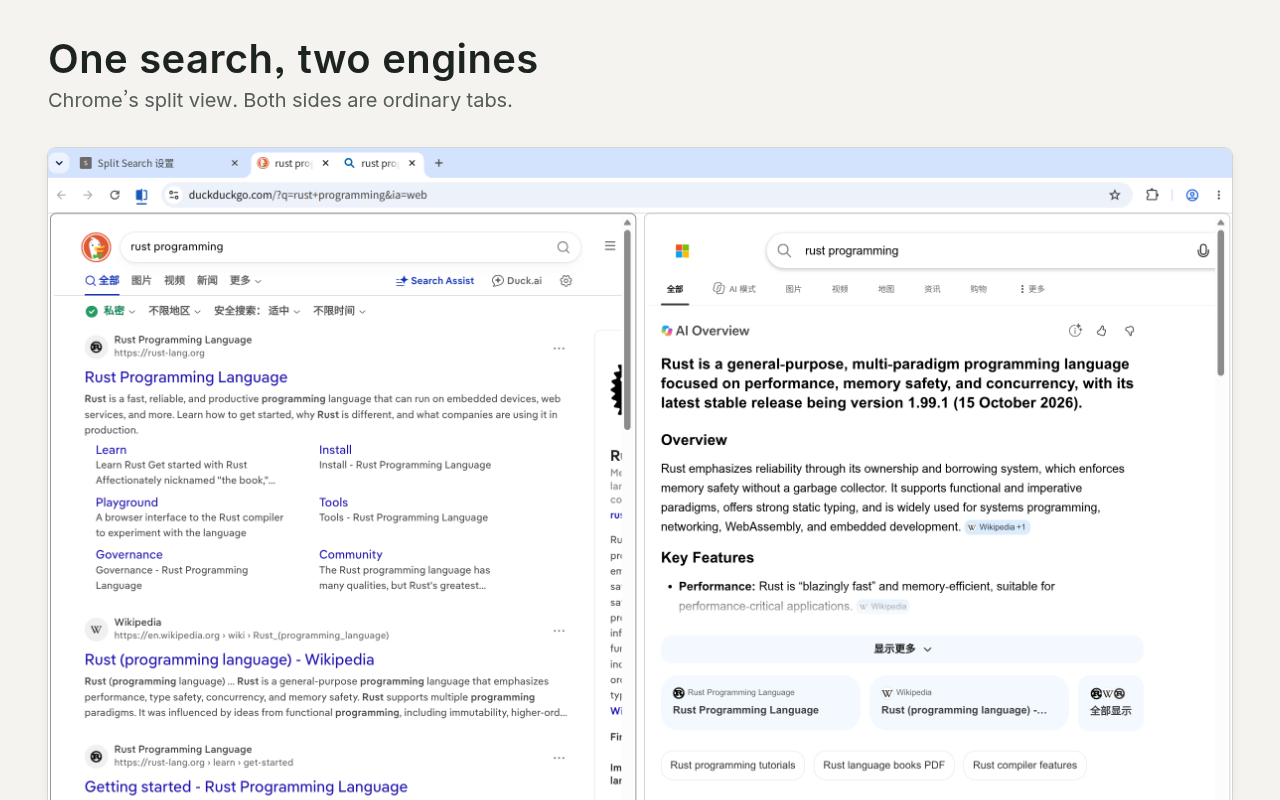
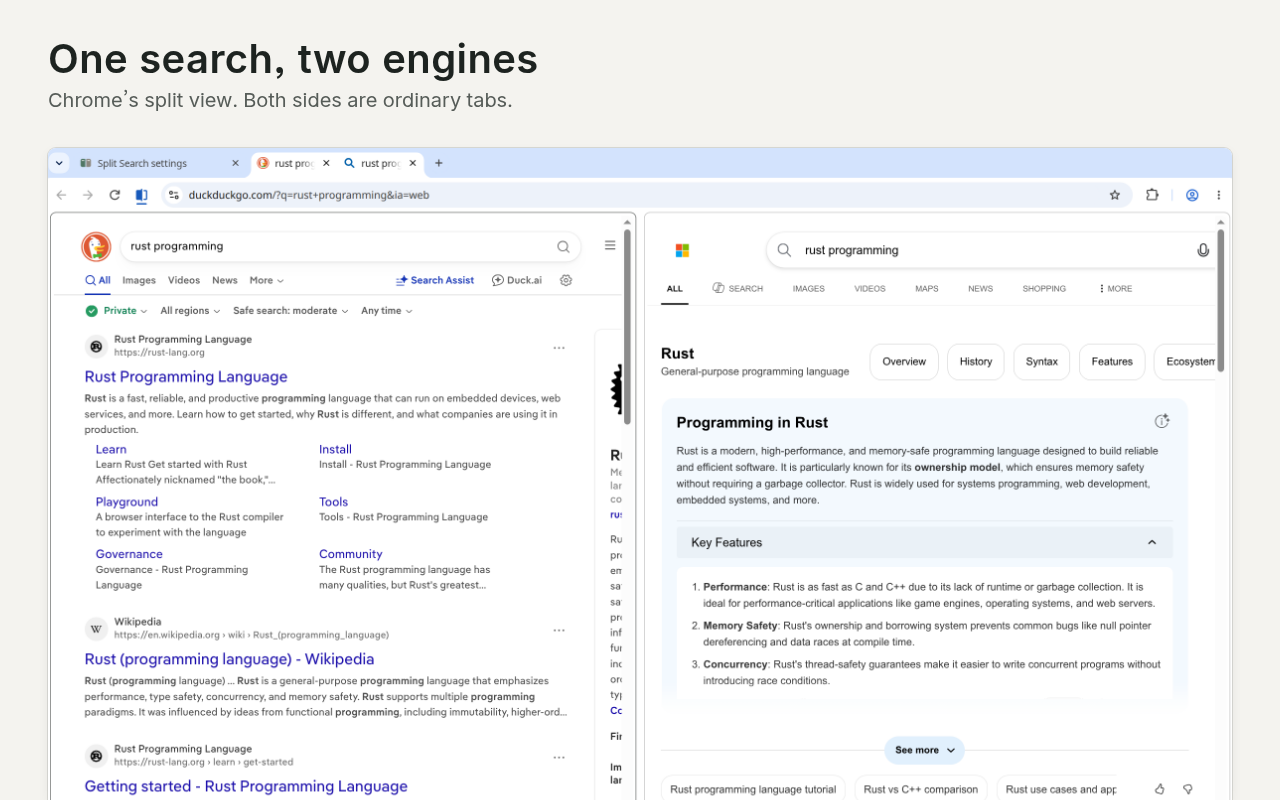
feat(store): English-only promo screenshots from real English captures
User decision 2026-10-24: promo screenshots are English-only for now.

- assets/raw/en: 8 real captures with English Chrome UI (--lang=en-US),
  extension uiLocale en, c6 icon, English DDG/Bing pages, Bing on the
  right (no Baidu); taken in the isolated e2e profile on a private Xvfb
  via scripts/e2e modules, with storage.sync, default search engine and
  site searches restored afterwards
- render-assets.mjs: rawSet() swaps ../raw/<name> for ../raw/<locale>/<name>
  when present and marks <html data-raw>; crop.js re-lays out crops and
  reads data-crop/box/d/text-<locale> overrides
- templates: en coordinates for the drag, engines card and how-it-works
  crops; en how.flagNote and _ss now say bing
- re-rendered assets/store/en and assets/readme/en; zh_CN, zh_TW and es
  outputs are byte-identical to HEAD's renderer
- docs: assets-spec, captions and listing pre-submit notes: English-only
  screenshots, CWS shows them for every locale unless localized ones are
  uploaded, other locales' screenshot sets are not maintained for now

diff --git a/assets/templates/crop.js b/assets/templates/crop.js
@@ -1,18 +1,31 @@
 // 按原图像素坐标裁切截图：<div class="crop" data-crop="x,y,w,h"><img src data-iw="2400"> …</div>
 // 缩放 = 容器宽度 / w；容器高度设为 h × 缩放（data-h="fill" 时保留 CSS 给的高度）。
 // 容器内的 .mark / .patch（data-box="x,y,w,h"）按同一缩放定位；.patch 是盖在原图上的修补小图（见 assets/raw/captions.md）；svg.ann 的 viewBox 直接写原图坐标，这里把它对齐到裁切区。
-for (const el of document.querySelectorAll(".crop[data-crop]")) {
-  const [x, y, w, h] = el.dataset.crop.split(",").map(Number);
-  const s = el.clientWidth / w;
-  if (el.dataset.h !== "fill") el.style.height = `${h * s}px`;
-  const img = el.querySelector("img:not(.patch)");
-  Object.assign(img.style, { left: `${-x * s}px`, top: `${-y * s}px`, width: `${+img.dataset.iw * s}px` });
-  for (const m of el.querySelectorAll(".mark[data-box], .patch[data-box]")) {
-    const [bx, by, bw, bh] = m.dataset.box.split(",").map(Number);
-    Object.assign(m.style, { left: `${(bx - x) * s}px`, top: `${(by - y) * s}px`, width: `${bw * s}px`, height: `${bh * s}px` });
+// 某语言换用自己的截图时（render-assets.mjs 设 <html data-raw="en">，截图在 assets/raw/en/），画面位置和网址不同：
+// 有 data-crop-en / data-box-en 就用它们，svg.ann 里 path 的 data-d-en 换掉 d，data-text-en 换掉元素文字；没有就用默认值。
+// 加载时排一次；render-assets.mjs 换完截图后再调用 window.layoutCrops()（可重复调用）。
+function layoutCrops() {
+  const raw = document.documentElement.dataset.raw;
+  const pick = (el, k) => (raw && el.getAttribute(`data-${k}-${raw}`)) || el.getAttribute(`data-${k}`);
+  if (raw) {
+    for (const el of document.querySelectorAll(`[data-text-${raw}]`)) el.textContent = el.getAttribute(`data-text-${raw}`);
+    for (const p of document.querySelectorAll(`svg.ann path[data-d-${raw}]`)) p.setAttribute("d", p.getAttribute(`data-d-${raw}`));
   }
-  for (const svg of el.querySelectorAll("svg.ann")) {
-    svg.setAttribute("viewBox", `${x} ${y} ${w} ${el.clientHeight / s}`);
-    svg.setAttribute("preserveAspectRatio", "xMinYMin meet");
+  for (const el of document.querySelectorAll(".crop[data-crop]")) {
+    const [x, y, w, h] = pick(el, "crop").split(",").map(Number);
+    const s = el.clientWidth / w;
+    if (el.dataset.h !== "fill") el.style.height = `${h * s}px`;
+    const img = el.querySelector("img:not(.patch)");
+    Object.assign(img.style, { left: `${-x * s}px`, top: `${-y * s}px`, width: `${+img.dataset.iw * s}px` });
+    for (const m of el.querySelectorAll(".mark[data-box], .patch[data-box]")) {
+      const [bx, by, bw, bh] = pick(m, "box").split(",").map(Number);
+      Object.assign(m.style, { left: `${(bx - x) * s}px`, top: `${(by - y) * s}px`, width: `${bw * s}px`, height: `${bh * s}px` });
+    }
+    for (const svg of el.querySelectorAll("svg.ann")) {
+      svg.setAttribute("viewBox", `${x} ${y} ${w} ${el.clientHeight / s}`);
+      svg.setAttribute("preserveAspectRatio", "xMinYMin meet");
+    }
   }
 }
+layoutCrops();
+window.layoutCrops = layoutCrops;

diff --git a/assets/templates/store-3-drag.html b/assets/templates/store-3-drag.html
@@ -6,7 +6,8 @@
 <script src="fonts.js"></script>
 <style>
   /* 版式同截图 2：两块同缩放（0.435），高 652 正好是原图整窗高，窗口下沿落在画布底边。
-     左 432 宽 = 拖拽中（只取选中的“Graydon Hoare”到标签栏落点这一段）；右 704 宽 = 松手后的分屏 */
+     左 432 宽 = 拖拽中（只取选中的“Graydon Hoare”到标签栏落点这一段）；右 704 宽 = 松手后的分屏。
+     en 用 assets/raw/en/ 的英文截图（选区、落点位置不同），裁切、细框、拖拽路径用 *-en 坐标（crop.js） */
   .a { left: 48px; width: 432px; } .b { left: 528px; width: 704px; }
   .cap.ca { left: 48px; } .cap.cb { left: 528px; }
   .link { left: 480px; top: 226px; }
@@ -19,18 +20,18 @@
   <div class="cap ca" data-t="shot3.cap1"></div><div class="cap cb" data-t="shot3.cap2"></div>
   <!-- 真实截图：拖拽中（选中“Graydon Hoare”，拖拽影像已到标签栏，尚未松手）；细框和细箭头是标注。
        这段裁切不含 Xvfb 下黑底的插入箭头（x=397），不需要修补图 -->
-  <div class="crop bleed a" data-crop="650,0,994,1500" data-h="fill"><img src="../raw/drag-to-tabstrip.png" data-iw="2400" alt="">
-    <i class="mark" data-box="692,588,182,50"></i>
-    <i class="mark" data-box="1418,10,182,38"></i>
+  <div class="crop bleed a" data-crop="650,0,994,1500" data-crop-en="578,0,994,1500" data-h="fill"><img src="../raw/drag-to-tabstrip.png" data-iw="2400" alt="">
+    <i class="mark" data-box="692,588,182,50" data-box-en="600,580,182,50"></i>
+    <i class="mark" data-box="1418,10,182,38" data-box-en="1370,16,180,38"></i>
     <svg class="ann">
       <defs><marker id="h" viewBox="0 0 10 10" refX="6" refY="5" markerWidth="7" markerHeight="7" orient="auto-start-reverse">
         <path d="M1 1L9 5L1 9" fill="none" stroke="#507665" stroke-width="1" stroke-linecap="round" stroke-linejoin="round"/></marker></defs>
-      <path d="M886 604 C 1200 596, 1500 470, 1509 76" fill="none" stroke="#507665" stroke-width="2.4"
+      <path d="M886 604 C 1200 596, 1500 470, 1509 76" data-d-en="M795 596 C 1110 588, 1451 470, 1460 82" fill="none" stroke="#507665" stroke-width="2.4"
         stroke-linecap="round" marker-end="url(#h)"/>
     </svg>
   </div>
   <svg class="link" viewBox="0 0 48 12"><path d="M8 6H39M34 2L39 6L34 10" stroke="#507665" stroke-width="1" fill="none" stroke-linecap="round" stroke-linejoin="round"/></svg>
-  <!-- 真实截图：松手后的分屏，左 DuckDuckGo、右百度，查询词 Graydon Hoare -->
+  <!-- 真实截图：松手后的分屏，左 DuckDuckGo、右百度（en 是 Bing），查询词 Graydon Hoare -->
   <div class="crop bleed b" data-crop="50,0,1620,1500" data-h="fill"><img src="../raw/drag-result-split.png" data-iw="2400" alt=""></div>
   <script src="crop.js"></script>
 </body></html>

diff --git a/assets/templates/readme-how-it-works.html b/assets/templates/readme-how-it-works.html
@@ -38,8 +38,8 @@
       <div class="crop" data-crop="238,62,600,136"><img src="../raw/omnibox-suggest.png" data-iw="2400" alt=""></div>
       <div class="or" data-t="how.or" data-lines="2"></div>
       <!-- 真实截图片段（拖拽中，尚未松手）：标签栏上的拖拽影像 -->
-      <div class="crop" data-crop="1250,0,480,74"><img src="../raw/drag-to-tabstrip.png" data-iw="2400" alt="">
-        <i class="mark" data-box="1418,10,182,38"></i></div>
+      <div class="crop" data-crop="1250,0,480,74" data-crop-en="1200,0,480,74"><img src="../raw/drag-to-tabstrip.png" data-iw="2400" alt="">
+        <i class="mark" data-box="1418,10,182,38" data-box-en="1370,16,180,38"></i></div>
     </div>
     <p class="note" data-t="how.note1"></p>
   </div>
@@ -49,7 +49,7 @@
     <div class="fig url">
       <code>https://duckduckgo.com<br>/?q=rust+ownership</code>
       <span class="k" data-t="how.urlNote" data-lines="1"></span>
-      <code><b>&amp;_ss=ddg,baidu</b></code>
+      <code><b data-text-en="&amp;_ss=ddg,bing">&amp;_ss=ddg,baidu</b></code>
       <span class="k s" data-t="how.flagNote" data-lines="1"></span>
     </div>
     <p class="note" data-t="how.note2"></p>
@@ -58,8 +58,8 @@
   <div class="col c3">
     <h2><b>3</b><span data-t="how.step3"></span></h2>
     <div class="fig">
-      <!-- 真实截图：回车后的分屏，左 DuckDuckGo、右百度。只取两个引擎的页头：DuckDuckGo 窗格整宽 + 百度 logo 和搜索框开头 -->
-      <div class="crop" data-crop="0,0,1640,1127"><img src="../raw/omnibox-result-split.png" data-iw="2400" alt=""></div>
+      <!-- 真实截图：回车后的分屏，左 DuckDuckGo、右百度（en 是 Bing，英文截图的空白在 1094–1110，切在 1102）。只取两个引擎的页头：DuckDuckGo 窗格整宽 + 右侧 logo 和搜索框开头 -->
+      <div class="crop" data-crop="0,0,1640,1127" data-crop-en="0,0,1640,1102"><img src="../raw/omnibox-result-split.png" data-iw="2400" alt=""></div>
     </div>
     <p class="note" data-t="how.note3"></p>
   </div>

diff --git a/test/store-i18n.test.js b/test/store-i18n.test.js
@@ -1,7 +1,8 @@
 import { test } from "node:test";
 import assert from "node:assert/strict";
 import { readFileSync, readdirSync } from "node:fs";
-import { LOCALES, SOURCE_LOCALE, localizedOut, parseArgs, resolveLocales } from "../scripts/store/render-assets.mjs";
+import { LOCALES, SOURCE_LOCALE, localizedOut, parseArgs, rawSet, resolveLocales } from "../scripts/store/render-assets.mjs";
+import { fileURLToPath } from "node:url";
 
 // 商店 / README 图片模板的文案：assets/templates/i18n/<locale>.json，模板里用 data-t="键" 引用
 const DIR = new URL("../assets/templates/", import.meta.url);
@@ -42,4 +43,13 @@ test("输出路径按语言分目录，zh_CN 的 README 图留在 assets/readme/
   assert.equal(parseArgs([]).locale, SOURCE_LOCALE);
   assert.equal(parseArgs(["--locale", "all"]).locale, "all");
   assert.throws(() => parseArgs(["--locale", "zh-TW"]), /--locale/);
+});
+
+test("en 用 assets/raw/en/ 的英文截图（宣传截图暂时只做英文），其他语言用共用截图；模板用到的每张图 en 都有", () => {
+  const en = rawSet(fileURLToPath(DIR), "en");
+  assert.equal(en?.set, "en");
+  for (const f of templates) {
+    for (const [, img] of readFileSync(new URL(f, DIR), "utf8").matchAll(/src="\.\.\/raw\/([^"/]+\.png)"/g)) assert.ok(en.files.includes(img), `${f} 用到的 ${img} 没有英文版`);
+  }
+  for (const l of ["zh_CN", "zh_TW", "es"]) assert.equal(rawSet(fileURLToPath(DIR), l), null);
 });

diff --git a/assets/templates/store-2-omnibox.html b/assets/templates/store-2-omnibox.html
@@ -17,11 +17,11 @@
     <p data-t="shot2.sub"></p>
   </header>
   <div class="cap ca" data-t="shot2.cap1"></div><div class="cap cb" data-t="shot2.cap2"></div>
-  <!-- 真实截图：在地址栏输入 rust ownership，下拉建议“rust ownership - DuckDuckGo ｜ 百度 搜索”（细框） -->
+  <!-- 真实截图：在地址栏输入 rust ownership，下拉建议“rust ownership - DuckDuckGo ｜ 百度 搜索”（细框；en 是“DuckDuckGo | Bing Search”，位置相同） -->
   <div class="crop bleed a" data-crop="0,0,994,1500" data-h="fill"><img src="../raw/omnibox-suggest.png" data-iw="2400" alt="">
     <i class="mark" data-box="246,132,504,56"></i></div>
   <svg class="link" viewBox="0 0 48 12"><path d="M8 6H39M34 2L39 6L34 10" stroke="#507665" stroke-width="1" fill="none" stroke-linecap="round" stroke-linejoin="round"/></svg>
-  <!-- 真实截图：回车后的分屏，左 DuckDuckGo、右百度，查询词 rust ownership -->
+  <!-- 真实截图：回车后的分屏，左 DuckDuckGo、右百度（en 是 Bing），查询词 rust ownership -->
   <div class="crop bleed b" data-crop="50,0,1620,1500" data-h="fill"><img src="../raw/omnibox-result-split.png" data-iw="2400" alt=""></div>
   <script src="crop.js"></script>
 </body></html>

diff --git a/assets/templates/store-4-engines.html b/assets/templates/store-4-engines.html
@@ -6,7 +6,8 @@
 <script src="fonts.js"></script>
 <style>
   /* 只放一样东西：设置页“搜索引擎”卡片，缩放 0.819。宽 1184 对应原图 x 477–1922（卡片居中，两边是设置页自己的浅灰底）；
-     出血高 652 → 原图第 1266 行，落在 Perplexity 一行下方分隔线之后的空白（1249–1284） */
+     出血高 652 → 原图第 1266 行，落在 Perplexity 一行下方分隔线之后的空白（1249–1284）。
+     en 截图卡片左移 11px、Perplexity 多一行提示：裁 465,486 起，下沿 1282 落在提示和分隔线之间的空白（1277–1303） */
   .crop { left: 48px; width: 1184px; }
 </style></head>
 <body>
@@ -15,6 +16,6 @@
     <p data-t="shot4.sub"></p>
   </header>
   <!-- 真实截图：设置页“搜索引擎”卡片（DuckDuckGo 默认左侧、Bing 默认右侧，授权状态、排序、编辑） -->
-  <div class="crop bleed" data-crop="477,470,1445,796" data-h="fill"><img src="../raw/options-engines.png" data-iw="2400" alt=""></div>
+  <div class="crop bleed" data-crop="477,470,1445,796" data-crop-en="465,486,1445,796" data-h="fill"><img src="../raw/options-engines.png" data-iw="2400" alt=""></div>
   <script src="crop.js"></script>
 </body></html>

diff --git a/docs/store/assets-spec.md b/docs/store/assets-spec.md
@@ -7,7 +7,7 @@
 | 素材 | 尺寸 | 格式 | 数量 | 是否必需 | 要点 |
 |---|---|---|---|---|---|
 | 商店图标 | 128×128 | PNG | 1 | 必需 | 图案 96×96，四周各留 16px 透明边。圆形图案直径约 112px，近方形图案约占宽度的 75–80%。不加外框，不加大投影（商店界面会自己加）；深色图案加一圈白色外发光，保证深色背景上可见。正面朝向，不用夸张透视。没有透明通道的图会被放进 12px 圆角框。同一个文件要打进扩展包，并在 manifest 的 `icons` 中声明 |
-| 截图 | 1280×800（首选）或 640×400 | PNG 或 JPEG | 1–5 | 至少 1 张 | 建议放满 5 张。直角、无留白（满版）。建议导出为不带透明通道的 PNG 或 JPEG，避免透明区域在商店里显示异常。可按语言分别上传（v0.2 起扩展有 `_locales`，v0.3 提交时按 4 种语言上传） |
+| 截图 | 1280×800（首选）或 640×400 | PNG 或 JPEG | 1–5 | 至少 1 张 | 建议放满 5 张。直角、无留白（满版）。建议导出为不带透明通道的 PNG 或 JPEG，避免透明区域在商店里显示异常。可按语言分别上传；没有为某种语言上传本地化截图时，CWS 对所有语言显示同一组截图。**暂时只做英文一套**（2026-10-24 用户决定，见第 4 节） |
 | 小宣传图 | 440×280 | PNG 或 JPEG | 1 | 控制台标为可选，按必做处理 | 没有它的条目排在有它的条目之后。少用文字；缩到一半大小仍要看得清；用饱和色，少用大面积白色和浅灰；铺满画面，边缘清晰。不能按语言区分 |
 | 顶部宣传图（marquee） | 1400×560 | PNG 或 JPEG | 1 | 可选 | 只有被商店选作首页推荐时才会用到。要求同小宣传图，不能按语言区分 |
 | 宣传视频 | — | YouTube 链接 | 1 | 可选 | 可按语言区分 |
@@ -17,7 +17,7 @@
 - 形状沿用方案 3（两块实心圆角窗格 + 白色搜索框横条），配色 c6 “pine-fog”：左格松针绿 `#507665`，右格暖雾灰 `#8C8881`。对比度等数据见 `notes.md`。
 - 来源：`assets/icon-proposals/v3-colors/c6-pine-fog/`（`icon.svg` 是 128 母版，16/32 是按像素网格调整的版本）。`assets/icon-proposals/` 其余方案留作历史。
 - 接入：`src/icons/icon-{16,32,48,128}.png`，在 manifest 的 `icons`（16/32/48/128）和 `action.default_icon`（16/32）中声明；`test/manifest.test.js` 核对文件存在且 PNG 尺寸与声明一致。`render-assets.mjs` 的默认图标已改为 c6 的 `icon.svg`，小宣传图、顶部宣传图和 README 首图已用它重渲。
-- **提交前必做（v0.3 上架前）**：`assets/raw/` 的真实截图是装上图标之前拍的，设置页标签页的图标是 Chrome 生成的灰底字母“S”，地址栏扩展标识和授权框里是默认拼图图标。凡是画面里带“Split Search 设置”标签页、设置页地址栏或授权框的图都受影响（至少 `screenshot-1`、`screenshot-4`、marquee 和 README 首图）。上架前要用带新图标的扩展重拍，再重渲全部图片。
+- **提交前必做（v0.3 上架前）**：`assets/raw/` 的共用真实截图是装上图标之前拍的，设置页标签页的图标是 Chrome 生成的灰底字母“S”，地址栏扩展标识和授权框里是默认拼图图标。凡是画面里带“Split Search 设置”标签页、设置页地址栏或授权框的图都受影响（至少 `screenshot-1`、`screenshot-4`、marquee 和 README 首图）。~~上架前要用带新图标的扩展重拍~~ 英文已重拍（2026-10-24）：`assets/raw/en/` 用带 c6 图标的 v0.2 扩展拍摄，`--locale en` 的图片都用它，见第 4 节。其他语言的截图暂不维护，不重拍。
 - ~~提交前待定：宣传图紫色渐变与橙色标注和 c6 不成一套~~ 已解决（2026-10-24）：定稿方向 d1「纸白 · 精排」，强调色就是图标左格的松针绿 `#507665`，见第 4 节。
 
 ## 2. 商店图片与 README 图片的区别
@@ -30,13 +30,13 @@
 | 文字量 | 尽量少；宣传图基本不放字，截图只配一行短标题 | 可以多：带标注的截图、流程图、步骤编号都合适 |
 | 动画 | 不支持，只能是静态图（动态内容放 YouTube 视频） | 可以用 GIF（或 WebP 动图）演示拖拽和地址栏操作；控制在几 MB 内，循环短 |
 | 明暗主题 | 商店页是浅色为主，按一套设计即可 | GitHub 有浅色和深色主题：用 `<picture>` 加 `prefers-color-scheme` 提供两套，或使用在两种背景上都清楚的透明底图 |
-| 本地化 | 截图可按语言分别上传，宣传图不行 | 跟着 README 的语言走（当前为简体中文） |
+| 本地化 | 截图可按语言分别上传，宣传图不行；目前只维护英文截图（第 4 节） | 跟着 README 的语言走（当前为简体中文） |
 | 可访问性 | 控制台不提供替代文字字段，信息要在详细说明里写全 | 每张图都写 `alt`，说清图里在演示什么 |
 | 目的 | 营销：一眼看出“两个引擎、拆分视图” | 说明：讲清机制、设置步骤和降级行为 |
 
 ## 3. 文件清单（已生成）
 
-全部图片由 `assets/templates/*.html` 经 `node scripts/store/render-assets.mjs` 渲染，画面里的浏览器和网页都是 `assets/raw/` 中的真实截图（见 `assets/raw/captions.md`），模板只做裁切、缩放、外框和标注。输出是不带透明通道的 PNG。
+全部图片由 `assets/templates/*.html` 经 `node scripts/store/render-assets.mjs` 渲染，画面里的浏览器和网页都是 `assets/raw/` 中的真实截图（见 `assets/raw/captions.md`），模板只做裁切、缩放、外框和标注。`en` 用 `assets/raw/en/` 的英文截图（英文 Chrome、英文扩展界面、右侧 Bing），其他语言用 `assets/raw/` 根下共用的中文截图。输出是不带透明通道的 PNG。
 
 图标默认用选定的 c6（见第 1 节）。要试别的图标时：
 
@@ -80,7 +80,7 @@ node scripts/store/render-assets.mjs --icon assets/icon-proposals/<方案目录>
   node scripts/store/render-assets.mjs --locale all     # i18n/ 里有 json 的全部语言
   ```
 
-  四种语言都已出图（2026-10-24），每种 9 张：商店 7 张（截图 1–5、小宣传图、顶部宣传图）+ README 2 张（`hero.png`、`how-it-works.png`）。译文是草稿，v0.3 前 zh_CN 源文案润色后重译。
+  四种语言都已出图（2026-10-24），每种 9 张：商店 7 张（截图 1–5、小宣传图、顶部宣传图）+ README 2 张（`hero.png`、`how-it-works.png`）。译文是草稿，v0.3 前 zh_CN 源文案润色后重译。只有 `en` 的画面是英文截图（见下面“宣传截图暂时只做英文”），其他语言的图片里浏览器和网页仍是中文。
 
   | 语言 | 文案 | 商店图 | README 图 | 说明 |
   |---|---|---|---|---|
@@ -90,8 +90,11 @@ node scripts/store/render-assets.mjs --icon assets/icon-proposals/<方案目录>
   | `es` | `i18n/es.json` + `i18n/es.css` | `assets/store/es/` | `assets/readme/es/` | 中性国际西语（tú）；`es.css` 把 marquee 标题降到 46px、小宣传图标签降到 20px |
 
   四种语言并排对照：`assets/proposals/locales-compare.png`（源文件 `locales-compare.html`，无头 Chrome 宽 1800 整页截图；图片改了要重截）。共用模板与 `base.css` 没有为译文改动，zh_CN 重渲后与提交的图逐字节一致。
-- **提交前必做（v0.3）：4 种语言都要重拍真实截图**。`assets/raw/` 的截图是中文 Chrome 界面、中文扩展界面（设置页）、旧的字母“S”图标，地址栏和拖拽两组右侧引擎是自行添加的“百度”。换了文案的 en / zh_TW / es 图片里，浏览器和网页仍是中文，不能直接上传。重拍时每种语言用 `--lang=<locale>` 启动 Chrome（界面语言跟着变），扩展界面用 v0.2 的本地化版本，装正式图标，右侧尽量换成预置引擎；再按语言重渲全部图片。
-- **宣传图不能按语言区分**：CWS 的小宣传图（440×280）和顶部宣传图（1400×560）全站只有一张，但 d1 的这两张都带一句文案（`small.tag`、`marquee.*`），渲染会每种语言各出一张。i18n 方案第 11 节写的是“宣传图不分语言，图上尽量不放文字，必须放就只放英文产品名”，两者冲突：提交前要决定上传哪种语言的版本（倾向 `en`，与 `default_locale` 一致），或者另做一版不带文案的宣传图。
+- **宣传截图暂时只做英文（2026-10-24 用户决定）**：取代原来“4 种语言都要重拍真实截图”的计划。
+  - `assets/raw/en/` 是英文的真实截图（拍法见 `assets/raw/captions.md`“英文截图”）：英文 Chrome 界面（`--lang=en-US`）、扩展界面语言 `en`、c6 正式图标、英文结果页，右侧全部是预置的 Bing，没有百度。`render-assets.mjs` 渲染某种语言时，`assets/raw/<语言>/` 里有同名截图就用它，没有就用 `assets/raw/` 根下共用的；画面位置不同的地方，模板用 `data-crop-en`、`data-box-en`、`data-d-en`、`data-text-en` 写英文截图的坐标和网址（`crop.js`）。目前只有 `en` 有自己的截图。
+  - 上传：截图、小宣传图、顶部宣传图都用 `assets/store/en/`。CWS 对所有语言显示同一组截图，除非为某种语言另行上传本地化截图；这次不上传其他语言的截图。
+  - 其他语言（zh_CN、zh_TW、es）的截图暂不维护：`assets/store/zh_CN|zh_TW|es/` 的画面仍是中文 Chrome、旧字母图标、右侧百度，不要上传。以后要做，再按 `en` 的办法为该语言拍 `assets/raw/<语言>/` 并补对应的 `data-*-<语言>` 坐标。
+- **宣传图不能按语言区分**：CWS 的小宣传图（440×280）和顶部宣传图（1400×560）全站只有一张，但 d1 的这两张都带一句文案（`small.tag`、`marquee.*`），渲染会每种语言各出一张。i18n 方案第 11 节写的是“宣传图不分语言，图上尽量不放文字，必须放就只放英文产品名”。按上一条的决定上传 `en` 版本（与 `default_locale` 一致）；要完全不带文案，还得另做一版。
 
 ## Review fixes（2026-10-24）
 

diff --git a/assets/raw/captions.md b/assets/raw/captions.md
@@ -57,3 +57,29 @@ convert drag-to-tabstrip.png \
 - 这台机器上 Bing 对中文查询会弹出人机验证（“最后一步 / 请验证您是真人”），所以中文场景的右侧换成了百度。补拍时，中文查询不要用 Bing 作右侧。
 - 截图里引擎页面的内容（DuckDuckGo 的 Search Assist、百度的 AI 摘要、“大家还在搜”等）都是网站当时实际返回的结果，没有改过。
 - 横向滚动条是 Linux 版 Chrome 的普通滚动条。Windows 上的效果以实拍为准。
+
+## 英文截图（en/）
+
+2026-10-24 用户决定宣传截图暂时只做英文。`en/` 是同一套画面的英文版，`render-assets.mjs --locale en` 用它们替换上面的同名图（其他语言仍用上面的中文截图，见 `docs/store/assets-spec.md` 第 4 节）。
+
+拍摄环境（与上面不同之处）：
+
+- Google Chrome 155.0.8059.84（Linux），界面语言英文：启动参数加 `--lang=en-US`、环境变量 `LANGUAGE=en_US:en`。独立 Xvfb 屏幕 2400×1500、缩放 1.5，窗口 1600×1000 CSS 像素，`import -window root` 截整屏，没有鼠标指针。
+- 用 e2e 的隔离测试配置 `~/.cache/split-search-e2e/profile`（`--disable-sync`，不登录 Chrome 账号），全程经 `scripts/e2e` 的模块：`display.mjs` 起私有 Xvfb，`browser.mjs` 启动，`ext-source.mjs` 改装本检出（feat/v0.2）的 `src/`，`settings-se.mjs` 加网站搜索并设默认，`xinput.mjs` 真实拖拽和键盘输入，`teardown.mjs` 的恢复步骤收尾：`storage.sync` 读回与快照一致，默认搜索引擎改回运行前的那个、删掉 `sse2e` 条目，扩展改回运行前装自的目录。测试配置的 Accept-Language 是 `en-US,en,zh-CN`，DuckDuckGo 和 Bing 都返回英文页面，没有加 `kl`、`setlang` 之类的参数。
+- 扩展版本 0.2（带 c6 正式图标），`storage.sync` 临时写成 `uiLocale: "en"`、默认组合 DuckDuckGo ｜ Bing、引擎排序 DuckDuckGo、Bing、Google、Kagi、Perplexity。测试配置里五个预置引擎都已授权，所以设置页里全部显示“Access granted”。
+- 网站搜索：名称 `DuckDuckGo | Bing`（设置页建议的名称）、网址 `https://duckduckgo.com/?q=%s&_ss=ddg,bing`、快捷字词 `sse2e`，设为默认。右侧全部是预置的 Bing，没有百度。
+
+| 文件 | 内容 |
+|---|---|
+| `en/options-top.png` | 设置页首屏（英文界面）：标题、语言下拉框、默认组合、“Add to Chrome”卡片里的触发网址 |
+| `en/options-engines.png` | 设置页滚动到“Search engines”卡片，卡片上缘与中文版同高（左右比中文版偏左 11px，模板用 `data-crop-en`） |
+| `en/options-fullpage.png` | 设置页整页（CDP `Page.captureScreenshot`），2376×3312 |
+| `en/split-ddg-bing-rust.png` | 新标签打开触发网址 `https://duckduckgo.com/?q=rust+programming&_ss=ddg,bing`，扩展建成 DuckDuckGo ｜ Bing 拆分视图；标签栏里是“Split Search settings”和两个分屏标签 |
+| `en/drag-to-tabstrip.png` | 英文维基百科“Rust (programming language)”，在正文“Software developer Graydon Hoare created Rust…”里选中“Graydon Hoare”（不是链接），用 xdotool 真实按下拖到标签栏空白处（落点 1460,30），没松手时截图。第一个标签旁同样有 Xvfb 下的黑底插入箭头（x≈411），不在任何裁切范围里 |
+| `en/drag-result-split.png` | 松手后：默认搜索引擎（触发网址）打开新标签，扩展建成 DuckDuckGo ｜ Bing 拆分视图，查询词“Graydon Hoare” |
+| `en/omnibox-suggest.png` | 在上一张的左侧地址栏输入“rust ownership”，下拉建议“rust ownership - DuckDuckGo \| Bing Search”（行的位置与中文版相同） |
+| `en/omnibox-result-split.png` | 回车后扩展在原分屏里更新两侧，查询词“rust ownership” |
+
+两次拍摄：第一次拍了全部 8 张，但拖拽落点（1509,30）离选区太远，商店截图 3 的左块装不下选区和拖拽影像；第二次只把落点改到 1460,30 重拍拖拽和地址栏两组。`en/drag-to-tabstrip.png` 取第二次的；`en/drag-result-split.png`、`en/omnibox-*.png` 取第一次的（同一流程、同一查询词，第二次的地址栏下拉多了一条第一次留下的历史记录）。
+
+每张都逐一看过：没有中文、没有账号头像（右上角是未登录的默认图标）、没有 Kagi 或其他网站的令牌、IP 和浏览历史。网页内容是网站当时实际返回的结果，没有改过。

diff --git a/assets/templates/README.md b/assets/templates/README.md
@@ -65,8 +65,8 @@ node scripts/store/render-assets.mjs --list     # 只列模板、尺寸和输出
 
 - CWS 对截图的建议是“直角、无留白（满版）”。这套方向是纸底留边的排法，截图本身没有满版；如果要严格照建议，需要另做一版让真实截图铺满 1280×800。
 - 截图 2、3 的结果分屏只显示到百度窗格的 logo 和搜索框，百度一侧的正文被块的右缘截掉；要两侧都完整，就得把整窗缩到约 0.29，字会读不清。
-- `assets/raw/` 里地址栏和拖拽两组截图的右侧是自定义引擎“百度”（这台机器上 Bing 对中文查询会弹人机验证）。要换成预置引擎，需要重拍。
-- 截图里设置页标签仍是 Chrome 生成的灰底“S”图标（`assets/raw/` 拍摄时还没有正式图标），上架前要重拍，见 `docs/store/assets-spec.md` 第 1 节。
+- `assets/raw/` 里地址栏和拖拽两组截图的右侧是自定义引擎“百度”（这台机器上 Bing 对中文查询会弹人机验证）。英文截图 `assets/raw/en/` 已换成预置的 Bing；中文截图暂不重拍（宣传截图暂时只做英文）。
+- 共用截图里设置页标签仍是 Chrome 生成的灰底“S”图标（`assets/raw/` 拍摄时还没有正式图标）；`assets/raw/en/` 已是正式图标，见 `docs/store/assets-spec.md` 第 1、4 节。
 
 ## 多语言（i18n/）
 
@@ -77,6 +77,7 @@ node scripts/store/render-assets.mjs --list     # 只列模板、尺寸和输出
 - 换行：值里写 `\n`，渲染时变成 `<br>`（例如 `marquee.title` 的 `"一次搜索，\n两个引擎对比"`）。不要在值里写 `<br>`，会原样显示。
 - 字体：`base.css` 按 `<html lang>` 选字族，zh-CN / en / es 用 Sarasa UI SC，zh-TW 用 Sarasa UI TC；`fonts.js` 检查当前语言要用的字族。
 - 微调：需要按语言改字号、字距、折行时，建 `i18n/<locale>.css`（有就自动加载），规则用 `:lang()` 限定，例如 `:root:lang(es) .head h1 { font-size: 36px; }`。
+- 截图：`assets/raw/<locale>/` 里有同名截图时，这个语言改用它（目前只有 `en`，宣传截图暂时只做英文）。英文截图里选区、拖拽落点、裁切下沿和 `_ss` 网址与中文版不同，模板在对应元素上写 `data-crop-en`、`data-box-en`、`data-d-en`（svg.ann 的路径）、`data-text-en`（文字），`crop.js` 按 `<html data-raw>` 选用，没有就用默认值。
 - 检查：渲染时缺键直接报错（不会退回中文）；文字超出所在块、定位容器或画布也报错；会自动折行的元素带 `data-lines="n"`，译文折成超过 n 行同样报错。命令以非零码退出。
 
 ```bash

diff --git a/docs/store/listing.zh-CN.md b/docs/store/listing.zh-CN.md
@@ -9,7 +9,9 @@
 提交时机：**v0.3 时提交（2026-10-24 用户决定）**，v0.1、v0.2 不提交。提交时带 4 种语言的详情：`en`（默认）、`zh_CN`、`zh_TW`、`es`，见 `docs/superpowers/specs/2026-10-24-i18n-design.md`。
 
 - [x] manifest 图标：方案 3 形状 + c6 pine-fog 配色，已接入 `src/icons/` 并在 manifest 声明；宣传图已用它重渲（见 `assets-spec.md` 第 1 节）。商店图标上传 `src/icons/icon-128.png`。
-- [ ] 用带新图标的扩展重拍 `assets/raw/` 截图、重渲全部图片（现有截图里是 Chrome 生成的字母图标，见 `assets-spec.md` 第 1 节），并按 4 种语言出图（i18n 方案 9.3 冒烟步骤的截图，经 `scripts/store` 合成）。
+- [x] ~~按 4 种语言重拍截图~~ 宣传截图暂时只做英文（2026-10-24 用户决定）：`assets/raw/en/` 已用带新图标的 v0.2 扩展、英文 Chrome 界面重拍，`--locale en` 已重渲（见 `assets-spec.md` 第 4 节）。
+- [ ] 上传截图、小宣传图、顶部宣传图时只用 `assets/store/en/`。CWS 对所有语言显示同一组截图，除非为某种语言另行上传本地化截图；其他语言（zh_CN、zh_TW、es）的截图暂不维护，`assets/store/zh_CN|zh_TW|es/` 里仍是中文浏览器界面，不要上传。
+- [ ] 英文截图里右侧都是 Bing，没有百度：详细说明里“部分截图右侧的‘百度’就是这样添加的”（`listing.en.md` 的 “the Baidu engine in some screenshots was added this way”）不再成立，提交前删掉。
 - [ ] **改 manifest 简介**：`description` 改成下方“简介”一节的采用版本，先用 humanizer 和 lieflat-less-ai-tone 润色定稿；v0.2 起它是 `zh_CN` 的 `ext_description`，其他语言照译（各 ≤132 字符）。
 - [x] 详细说明【使用限制】已把“界面仅提供简体中文”改为一句“设置页可以切换语言”；`listing.en.md` 的两处同改。
 - [ ] 待办：写 `listing.zh-TW.md`（台湾用词）和 `listing.es.md`，在 v0.2/v0.3 期间完成。
